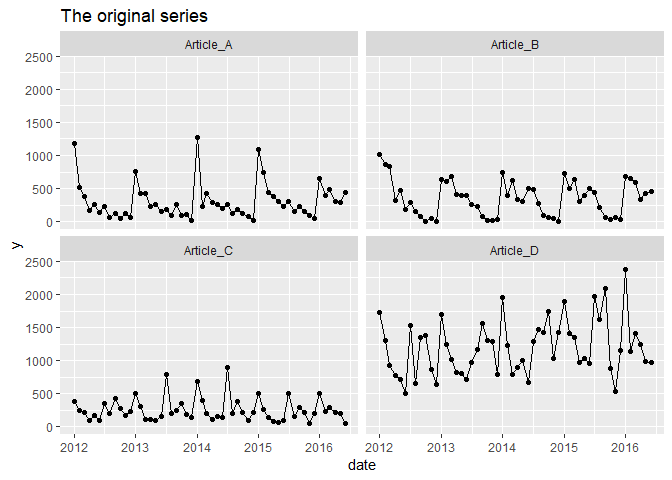
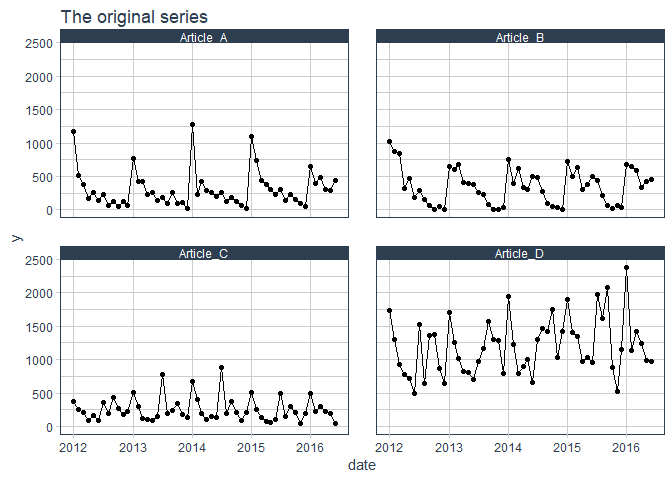
updated example with plot of preds vs actuals

Changed region(s): [[0.0312, 0.0, 1.0, 1.0], [0.0625, 0.75, 0.5312, 0.9688], [0.0, 0.5, 0.0312, 0.5312]]

diff --git a/README.md b/README.md
@@ -20,7 +20,7 @@ transformation)
 You can install the released version of efor from github with:
 
 ``` r
-devtools::install_github("flostracke/efor")
+#devtools::install_github("flostracke/efor")
 ```
 
 ## Example
@@ -35,6 +35,7 @@ library(efor)
 library(furrr) # for running the forecasting in parallel
 library(forecast) #provides forecast mehotds
 library(prophet) # provides forecast mehod
+library(tidyquant) # for nicer plots
 
 sales_data <- sales_monthly
 ```
@@ -51,7 +52,8 @@ ggplot(sales_data, aes(x = date, y = y)) +
   geom_line() +
   geom_point() +
   facet_wrap(~iterate) +
-  ggtitle("The original series")
+  ggtitle("The original series") +
+  theme_tq()
 ```
 
 <img src="man/figures/README-unnamed-chunk-2-1.png" width="100%" />
@@ -142,20 +144,29 @@ Finally we create a quick graph visualising the results of the
 forecasts.
 
 ``` r
-train_data <- train_data %>% 
+train_data_plot <- train_data %>% 
   mutate(key = "train")
 
-test_data <- test_data %>% 
+test_data_plot <- test_data %>% 
   mutate(key = "test")
 
-bind_rows(train_data, test_data) %>% 
+bind_rows(train_data_plot, test_data_plot) %>% 
   bind_rows(forecasts) %>% 
   ggplot(aes(x = date, y = y, color = key)) +
   geom_point() +
   geom_line() +
   facet_wrap(~iterate) +
   ggtitle("Forecasted values for each article") +
-  ylab("Sales amount")
+  ylab("Sales amount") +
+  theme_tq()
 ```
 
 <img src="man/figures/README-unnamed-chunk-9-1.png" width="100%" />
+
+And we can plot the forecasts against the actual forecasts:
+
+``` r
+tf_plot_preds_actuals(forecasts, test_data)
+```
+
+<img src="man/figures/README-unnamed-chunk-10-1.png" width="100%" />
